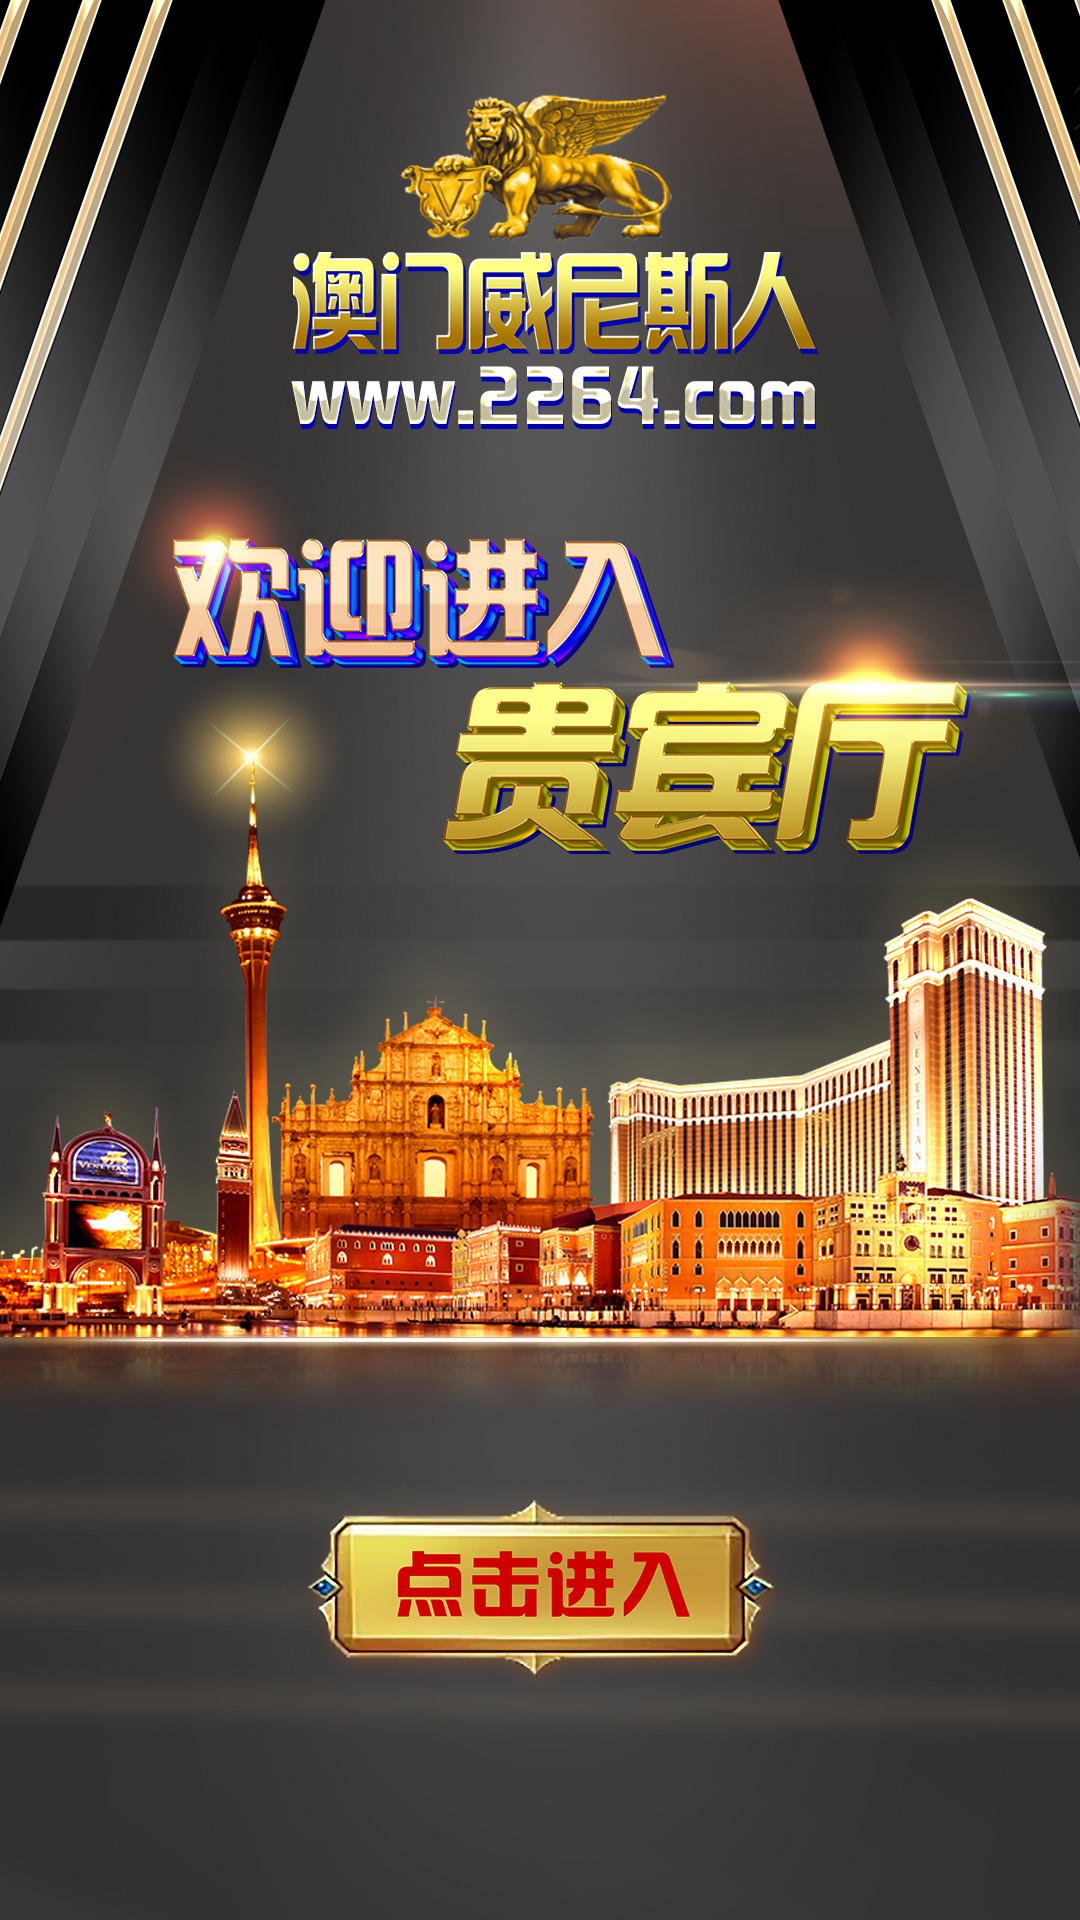
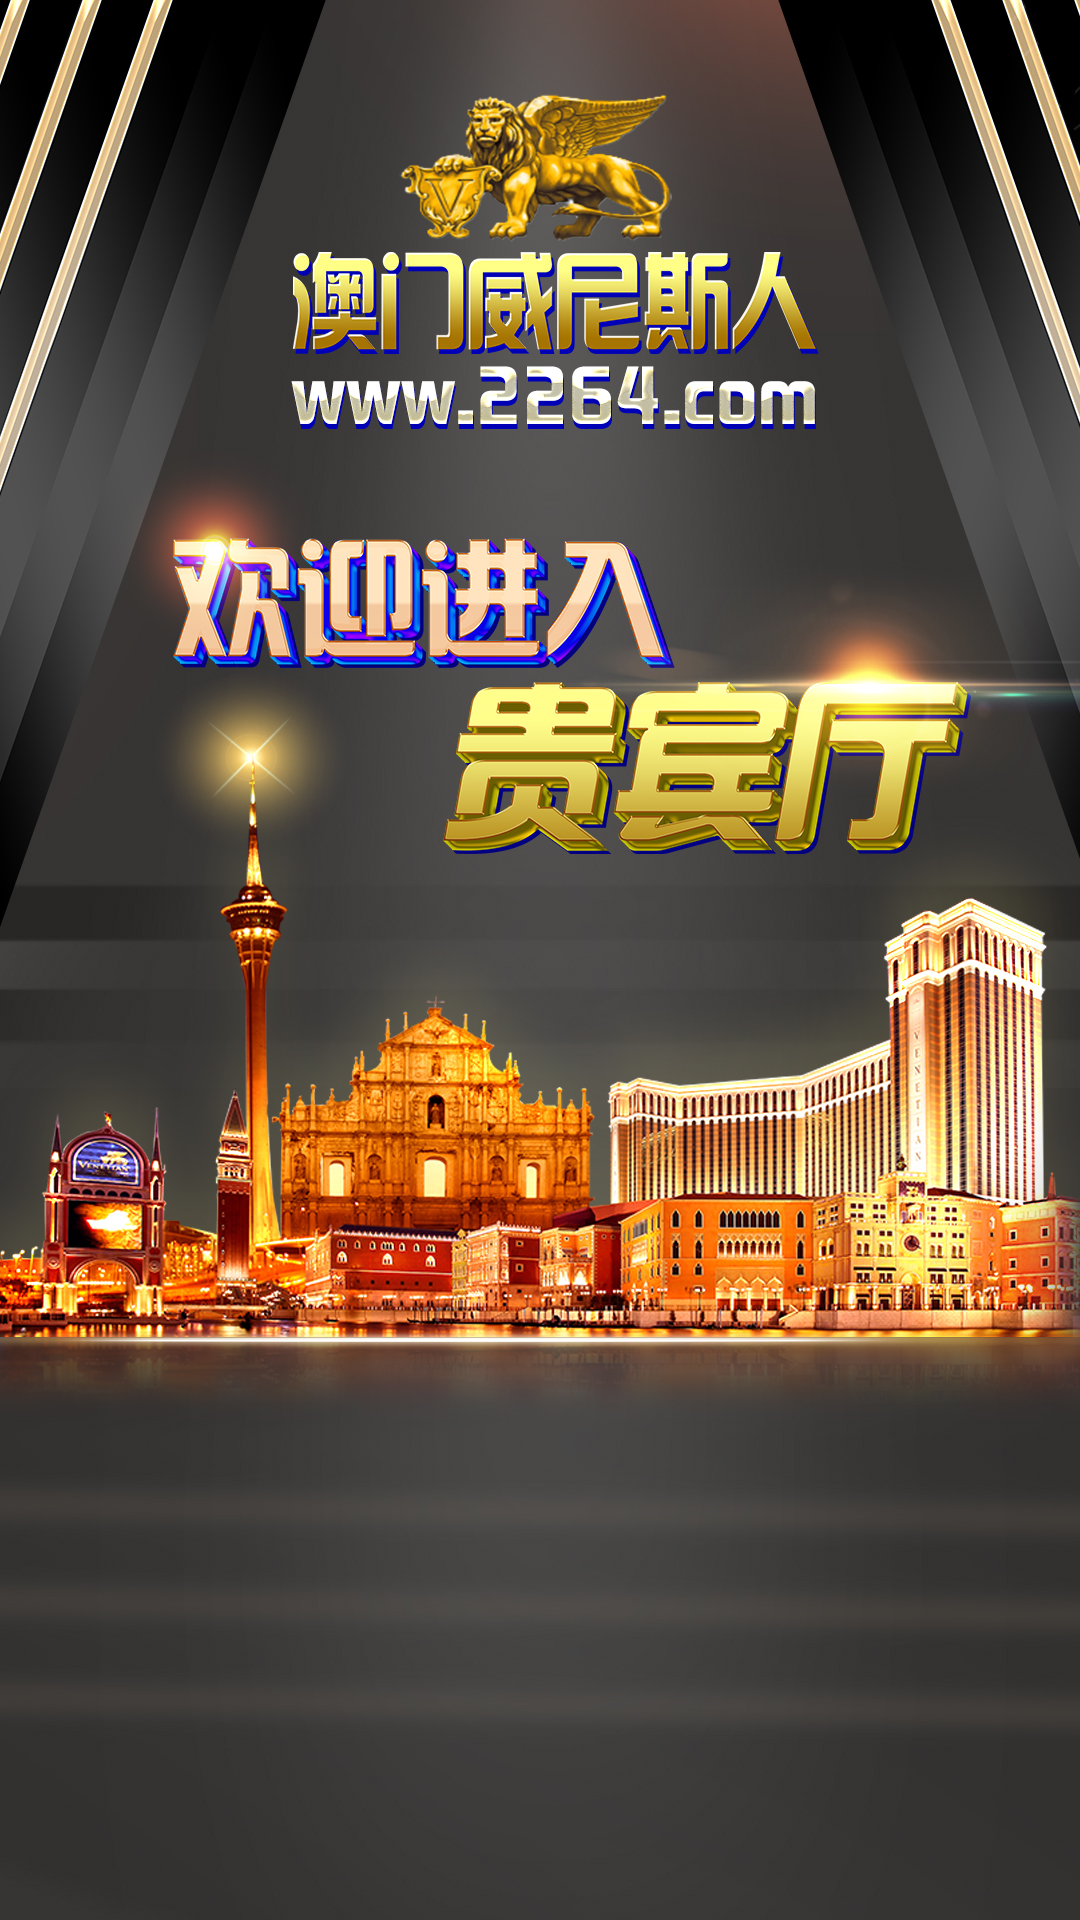
2264

Changed region(s): [[0.275, 0.7812, 0.7333, 0.875]]

diff --git a/welcome/index.html b/welcome/index.html
@@ -42,7 +42,7 @@
         background-repeat: no-repeat;
         /*background-image: url(./img/btn.png);*/
         background-size: 100% 100%;
-        margin: 139vw auto 0;
+        margin: 15vw auto 0;
         text-align: center;
         font-size: 35px;
         color: #ff0000;
@@ -51,20 +51,20 @@
 
     .h5 {
         display: none;
-        width: 100vw;
-        height: 175vw;
+        width: 100%;
+        height: 100%;
         background-repeat: no-repeat;
         background-image: url("./file/bg.jpg");
         background-size: 100% 100%;
         overflow: hidden;
     }
     .h5 .btn {
-        /*width: 42.66vw;*/
-        height: 11.73vw;
+        width: 49.2vw;
+        height: 20.2vw;
         background-repeat: no-repeat;
-        /*background-image: url(./img/btn.png);*/
+        background-image: url("./file/btn.png");
         background-size: 100% 100%;
-        margin: 57vw auto 0;
+        margin: 139vw auto 0;
 
         text-align: center;
         font-size: 30px;
